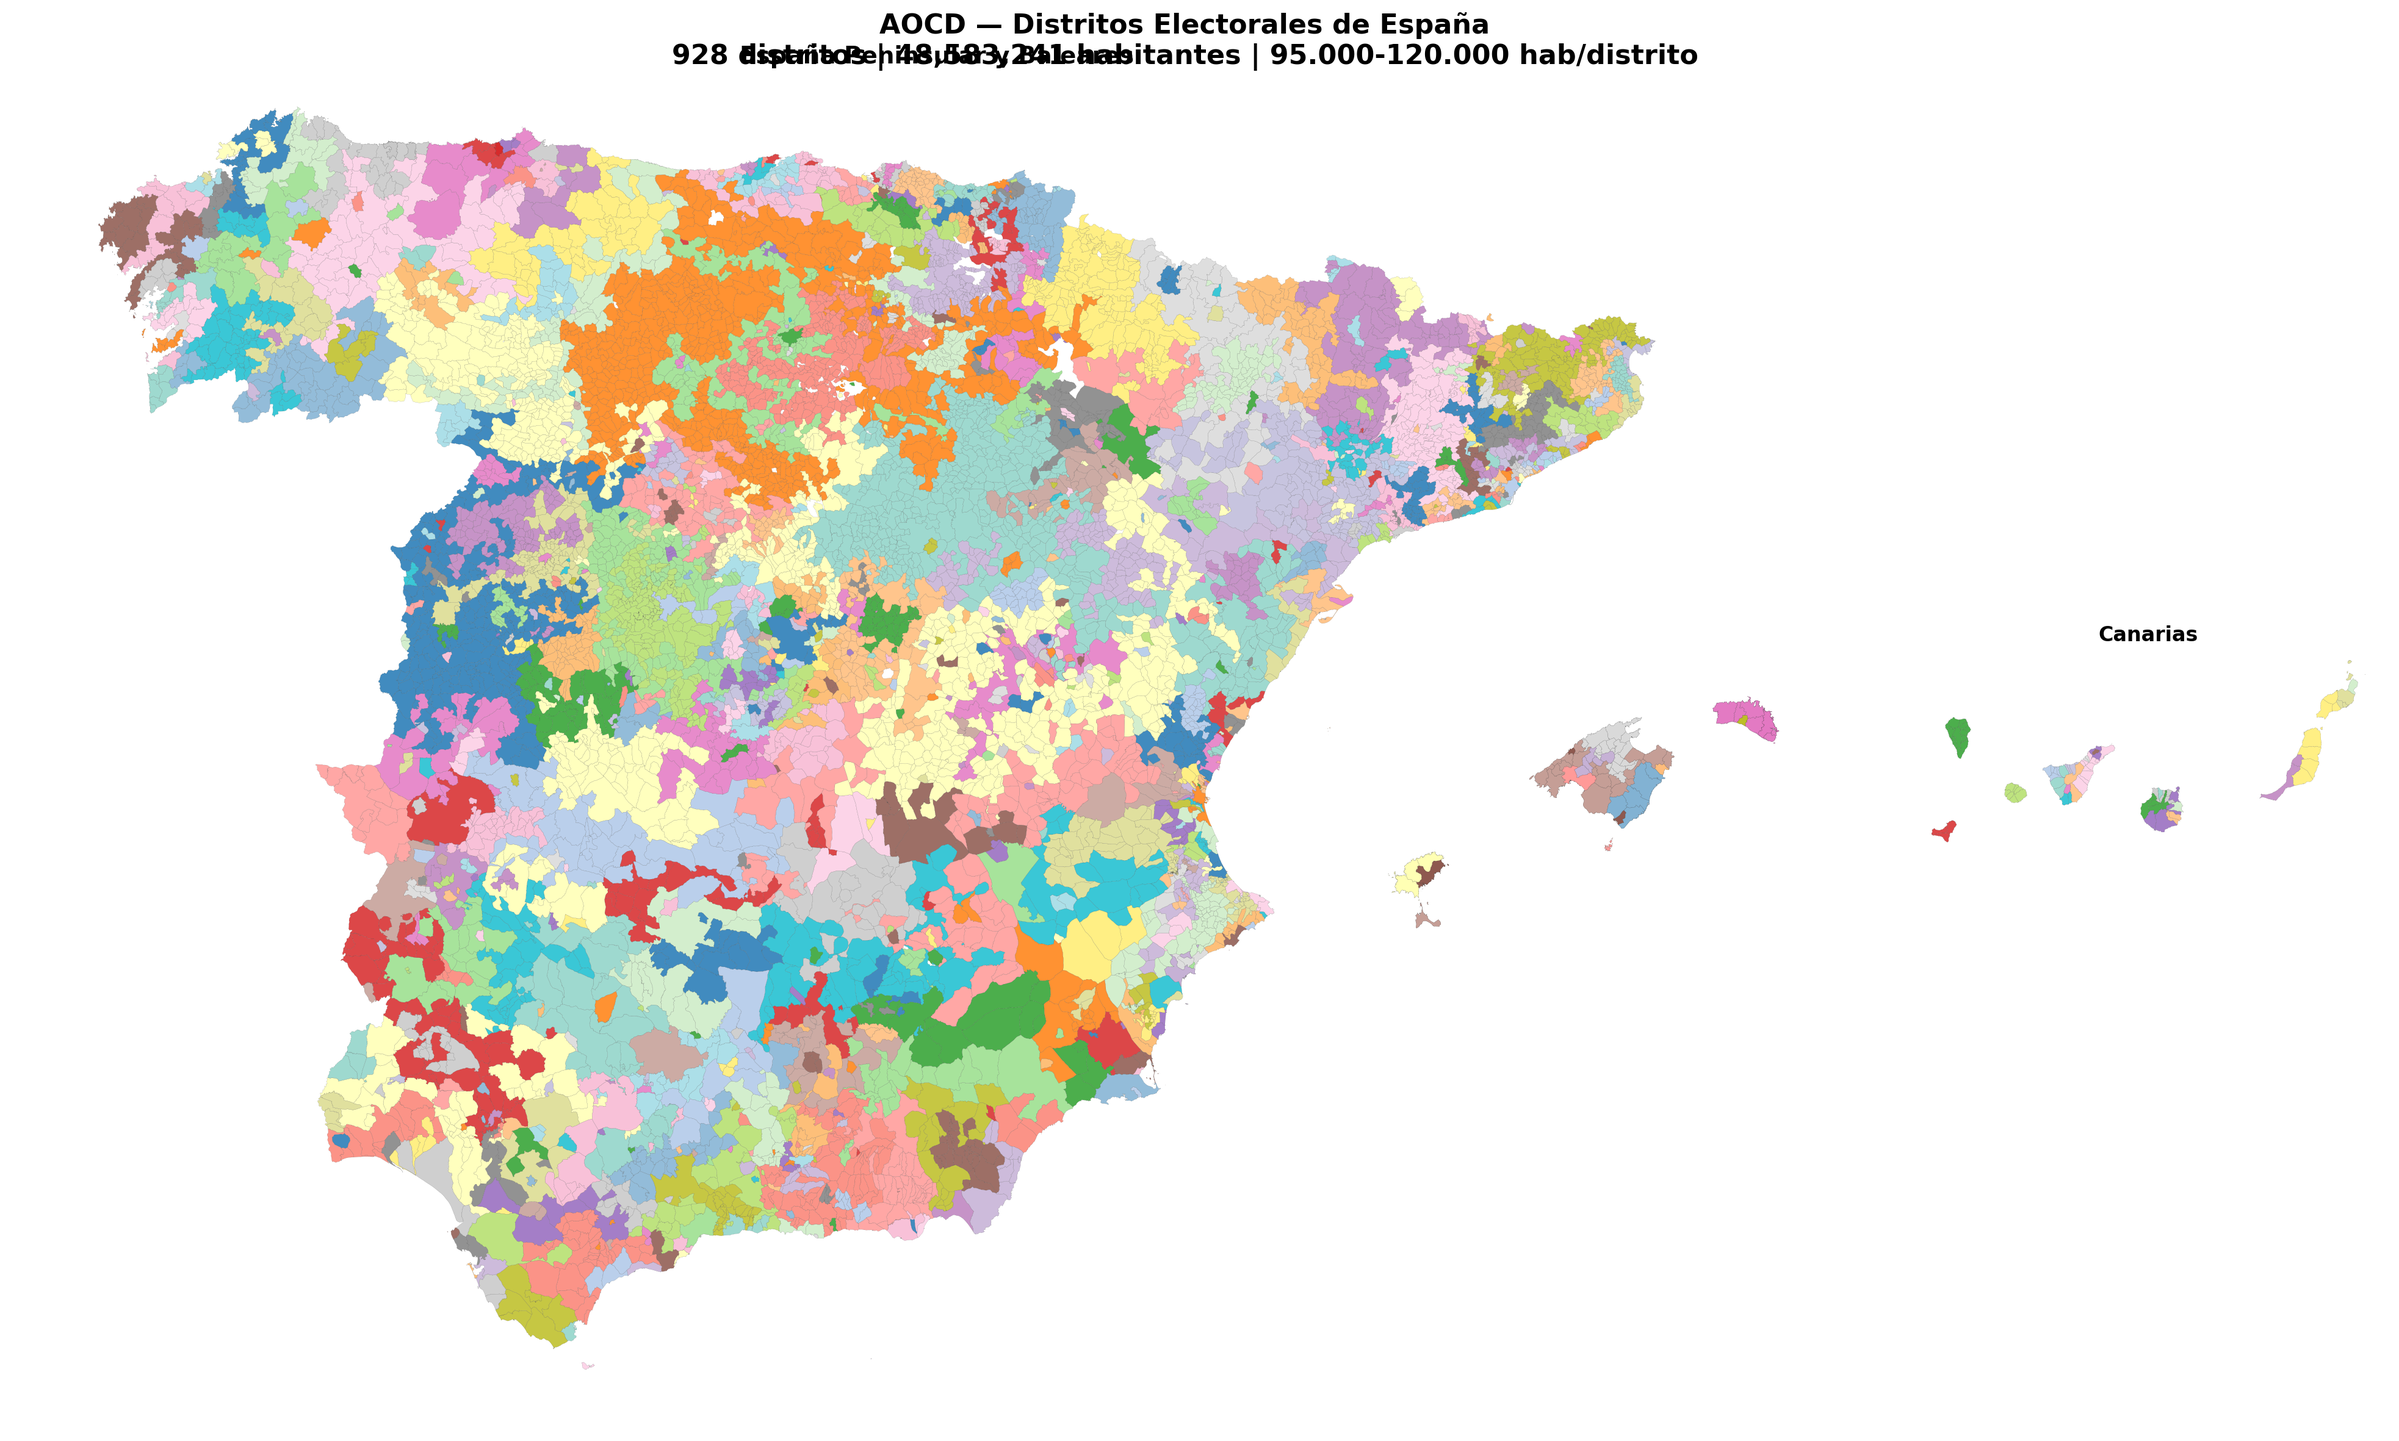
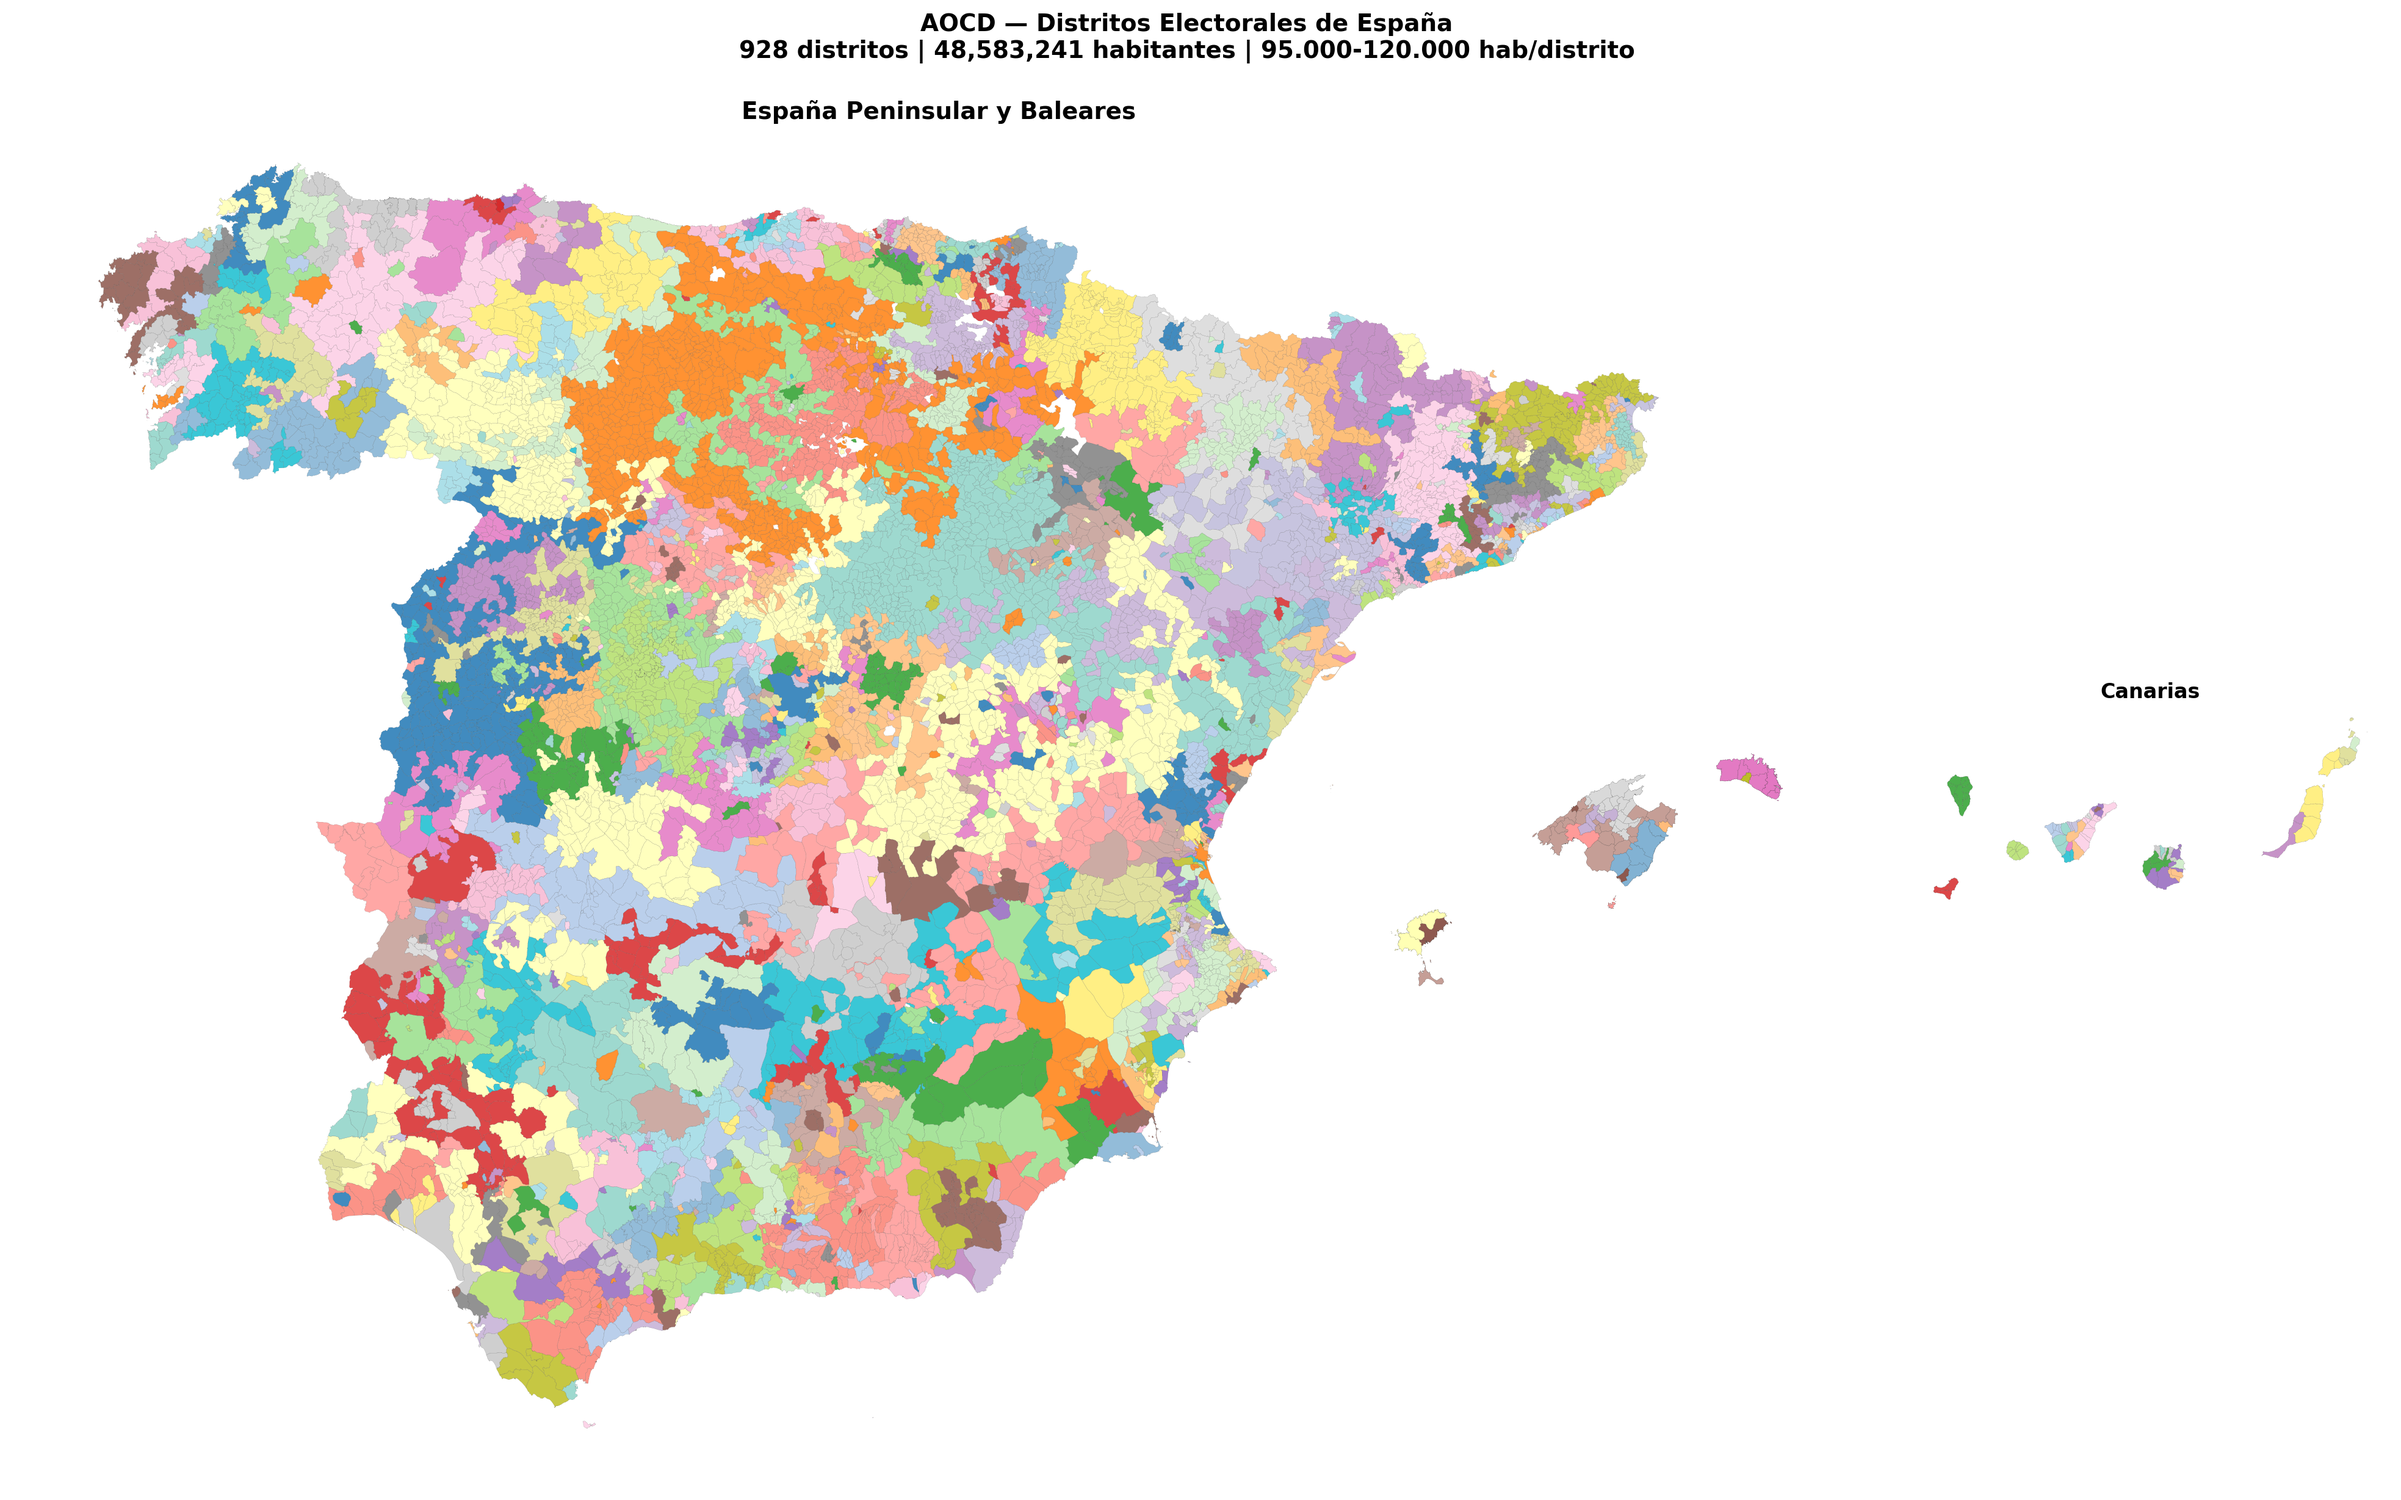
AOCD mapa: título arreglado

diff --git a/aocd_mapa.py b/aocd_mapa.py
@@ -128,7 +128,7 @@ def generar_mapa(gdf, mun_to_dist, dist_colors, output_path):
     fig.suptitle(
         f'AOCD — Distritos Electorales de España\n'
         f'{n_distritos} distritos | {pob_total:,} habitantes | 95.000-120.000 hab/distrito',
-        fontsize=16, fontweight='bold', y=0.98
+        fontsize=14, fontweight='bold', y=1.02
     )
 
     plt.tight_layout()
